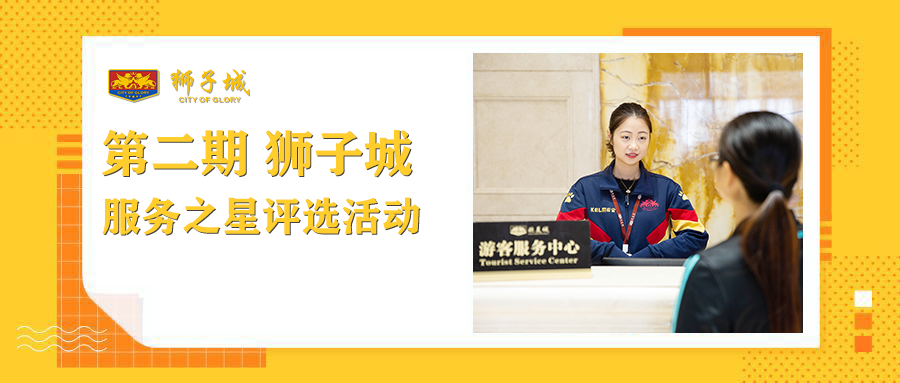
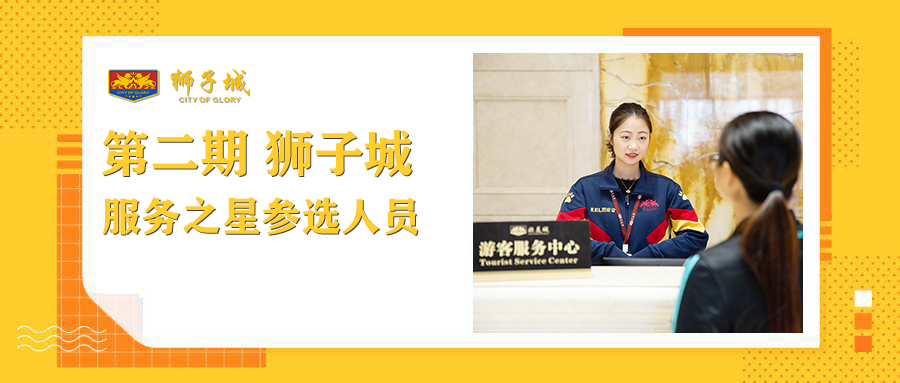
1023

Changed region(s): [[0.3733, 0.517, 0.4667, 0.6319], [0.28, 0.517, 0.3422, 0.6319]]

diff --git a/project/gp/static/css/main.css b/project/gp/static/css/main.css
@@ -202,27 +202,26 @@ legend{color:#000}
 .ticket .content h3 strong{border-left:4px solid #F6AB00;padding-left:10px;font-weight:700}
 .index_all{width:100%;background-color:#fff}
 .index_all ul{width:100%;height:auto;overflow:hidden}
-.index_all ul li{width:100%;height:auto;overflow:hidden;background:#fff;margin:10px auto;border-bottom:1px solid #e9ecef;display:-webkit-box;display:-webkit-flex;display:-ms-flexbox;display:flex}
-.index_all ul li:last-child{border-bottom:0;margin-bottom:0}
+.index_all ul li{width:100%;height:auto;overflow:hidden;background:#fff;margin:10px auto;display:-webkit-box;display:-webkit-flex;display:-ms-flexbox;display:flex}
+.index_all ul li:last-child{border-bottom:0}
 .index_all ul li .inTop{width:100%}
 .index_all ul li .dol{color:#ff3b44;font-size:1.00625rem;font-weight:700}
 .index_all ul li .dol em{font-size:1.2075rem}
 .index_all ul li .dor{color:#ccc;font-size:.805rem;text-decoration:line-through}
-.index_all ul li .in_fl{width:32%}
+.index_all ul li .in_fl{width:100px;height:100px;margin:0 .50313rem}
 .index_all ul li .in_fl img{-webkit-border-radius:5px;border-radius:5px}
+.index_all ul li .qqjdImg{width:150px!important;height:90px!important}
 .index_all .tic_con h2{overflow:hidden;white-space:nowrap;-o-text-overflow:ellipsis;text-overflow:ellipsis;height:30px;line-height:30px!important}
-.index_all .in_fr{margin-bottom:.50313rem;margin-right:.50313rem;width:68%;height:auto;position:relative}
-.index_all .in_fr .ticket_type{height:35px;line-height:35px}
+.index_all .in_fr{width:68%;height:auto;position:relative}
 .index_all .in_fr .ticket_type li{display:inline;border:1px solid #F6AB00;color:#F6AB00;padding:2px;font-size:.50313rem}
 .index_all .in_fr .ticket_type li:last-child{margin-right:0}
 .index_all .in_fr .piao_type{line-height:1.5rem;border-bottom:0}
 .index_all .in_fr .piao_type .del{margin-left:.2rem;color:#0077c8}
 .index_all .in_fr img{width:100%;height:100%}
-.index_all .in_fr h2{font-size:.805rem;font-weight:700;color:#342c2a;line-height:20px}
+.index_all .in_fr h2{font-size:.805rem;font-weight:700;color:#342c2a;line-height:20px;margin-bottom:5px}
 .index_all .in_fr p{width:100%;margin:.3rem 0;font-size:.70437rem;color:#999;overflow:hidden;-o-text-overflow:ellipsis;text-overflow:ellipsis;white-space:nowrap}
 .index_all .in_fr div{width:auto;height:auto;overflow:hidden}
 .index_all .in_fr .Sold{margin-right:22%;font-size:.5rem;color:#666;margin-top:5%}
-.in_fl{width:40%;margin:.28437rem}
 .table td,.table th{padding:.75rem .5rem!important}
 .btn-link.focus,.btn-link:focus{text-decoration:none}
 .dropdown-menu{right:0;font-size:14px}

diff --git a/project/gp/_scss/gp/_index.scss b/project/gp/_scss/gp/_index.scss
@@ -62,13 +62,10 @@
             overflow: hidden;
             background:$white;
             margin:10px auto;
-            // border-radius:0.2rem;
-            // border: 1px solid $gray-300;
-            border-bottom: 1px solid #e9ecef;
+            // border-bottom: 1px solid #e9ecef;
             display: flex;
             &:last-child{
               border-bottom:0;
-              margin-bottom:0;
             }
             .inTop{
                 width: 100%;
@@ -87,14 +84,17 @@
                 text-decoration: line-through;
             }
             .in_fl{
-                // margin: rem(32.2);
-                width:32%;
-                // margin-bottom: rem(32.2);
-                // margin-right: rem(32.2);
-                // margin-top: 0;
+                // width:32%;
+                width:100px;
+                height:100px;
+                margin:0 rem(32.2);
                 img{
-                    border-radius: 5px;
+                  border-radius: 5px;
                 }
+            }
+            .qqjdImg{
+                width:150px!important;
+                height:90px!important;
             }
         }  
     }
@@ -108,17 +108,12 @@
       }
     }
     .in_fr{
-       margin-bottom: rem(32.2);
-       margin-right: rem(32.2);
        width: 68%;
        height: auto;
        position: relative;
        .ticket_type{
-         height: 35px;
-         line-height: 35px;
          li{
            display: inline;
-        //    margin-right: 5px;
            border: 1px solid #F6AB00;
            color: #F6AB00;
            padding: 2px;
@@ -127,11 +122,6 @@
                margin-right: 0;
            }
          }
-       }
-       .ticket_price{
-        //    position: absolute;
-        //    bottom: 0;
-        //    left: 0;
        }
        .piao_type{
             line-height:1.5rem;
@@ -150,6 +140,7 @@
             font-weight: bold;
             color:#342c2a;
             line-height: 20px;
+            margin-bottom: 5px;
         }
         p{
             width: 100%;
@@ -173,11 +164,6 @@
         }
     }
 }
-.in_fl{
-	width: 40%;
-	margin: rem(18.2);
-}
-
 .table th, .table td{
     padding: 0.75rem 0.5rem!important;
  }

diff --git a/project/gp/_layouts/list-qqjd.html b/project/gp/_layouts/list-qqjd.html
@@ -9,7 +9,29 @@ title: 奇奇主题酒店
         
         <!-- start 奇奇主题酒店  -->
         <div class="mstd">
-            <div class="weui-flex">
+
+            <div class="content">
+                <h3 class="pt-2 pl-2 pr-2"><strong>奇奇主题酒店</strong></h3>
+                <ul class="lists">
+                    {% for ticket in site.data.listqqjd %}
+                    <li onclick="javascript: window.location.href =&#39;ticketDetailsNew1.html&#39;">
+                        <div class="in_fl qqjdImg">
+                            <img src="{{ticket.GetImage}}" alt=" ">
+                        </div>
+                        <div class="in_fr tic_con">
+                            <h2>
+                                <a href="javascript:;" class="badge badge-{{ticket.GetTypeColor}} text-white mr-2 pt-1 pb-1 pl-2 pr-2">{{ticket.GetType}}</a>{{ticket.GetTitle}}
+                            </h2>
+                            <div class="ticket_price d-block">
+                                <span class="dol">¥<em>{{ticket.YuanPrick}}</em></span>
+                                <!-- <span class="dor">¥{{ticket.YuanPrick}}</span> -->
+                            </div>
+                        </div>
+                    </li>
+                    {% endfor %}
+                </ul>
+             </div>
+            <!-- <div class="weui-flex">
                 <div class="weui-flex__item ywbox">
                     <div class="yw-img"><img src="static/images/home1/gp3.png" alt=""></div>
                     <div class="yw-con">标准客房</div>
@@ -18,7 +40,7 @@ title: 奇奇主题酒店
                     <div class="yw-img"><img src="static/images/home1/gp3.png" alt=""></div>
                     <div class="yw-con">豪华大房</div>
                 </div>
-            </div>
-            </div>
+            </div> -->
+        </div>
        <!-- end  -->
       </div>

diff --git a/project/vote/_layouts/rule.html b/project/vote/_layouts/rule.html
@@ -3,17 +3,18 @@ layout: pages
 title: 狮子城 · 服务之星评选
 ---
 <div class="container">
-    <div class="rule-container">
+    <div class="rule-container" style="width:100%">
         <h4 class="sort-title layui-bg-red" style="width:100%">
             <i class="iconfont icon-20-rules mr-1"></i> 评选规则
         </h4>
         <div class="content">
             <p>
-                <strong style="font-size:14px;width: 100%;display: block;">第二期 “狮子城 · 服务之星” 评比活动</strong>
+                <strong style="font-size:14px;width: 100%;display: block;">第二期 “狮子城 · 服务之星” 参选人员</strong>
             </p>
-            <p>投票时间：10月18日12:00-10月20日12:00</p>
-            <p>投票结果公布：10月21日投票结果公布</p>
-            <p>投票规则：<strong style="font-size:12px;font-weight: bold;">投票期间公司全体正式员工每人拥有一票的投票权</strong></p>
+            <p>投票时间：10月24日10:00-10月25日18:00</p>
+            <p>投票票数结果：投票结束后，系统总排名可查看</p>
+            <p>投票得分数排名：以文件下发为准。</p>
+            <p>投票规则：<strong style="font-size:12px;">公司全体正式员工每人拥有一票的投票权</strong></p>
         </div>
     </div>
 </div>

diff --git a/project/gp/_layouts/list-mstd.html b/project/gp/_layouts/list-mstd.html
@@ -9,7 +9,20 @@ title: 美食天地
     
     <!-- start 美食天地  -->
     <div class="mstd">
-        <div class="weui-flex mb-2">
+        <div class="content">
+            <h3 class="pt-2 pl-2 pr-2"><strong>美食天地</strong></h3>
+            <ul class="lists">
+                {% for ticket in site.data.listmstd %}
+                <li>
+                    <div class="http://hzomsell.m.yd-eating.com?storeId={{ticket.GetUrlstoreId}}">
+                        <img src="{{ticket.GetImage}}" alt=" ">
+                    </div>
+                </li>
+                {% endfor %}
+            </ul>
+        </div>
+
+        <!-- <div class="weui-flex mb-2">
             <div class="weui-flex__item ywbox">
                 <div class="yw-img"><img src="static/images/foods/1_11_09.jpg" alt=""></div>
                 <div class="yw-con">奇奇西餐厅</div>
@@ -28,7 +41,7 @@ title: 美食天地
                 <div class="yw-img"><img src="static/images/foods/1_11_09.jpg" alt=""></div>
                 <div class="yw-con">韩食</div>
             </div>
-        </div>
+        </div> -->
     </div>
     <!-- end  -->
 </div>

diff --git a/project/vote/_includes/script.html b/project/vote/_includes/script.html
@@ -6,7 +6,7 @@ function countTime() {
     var date = new Date();
     var now = date.getTime();
     //设置截止时间  
-    var str = "2019/10/21 17:56:00";
+    var str = "2019/10/25 18:00:00";
     var endDate = new Date(str);
     var end = endDate.getTime();
     //时间差  
